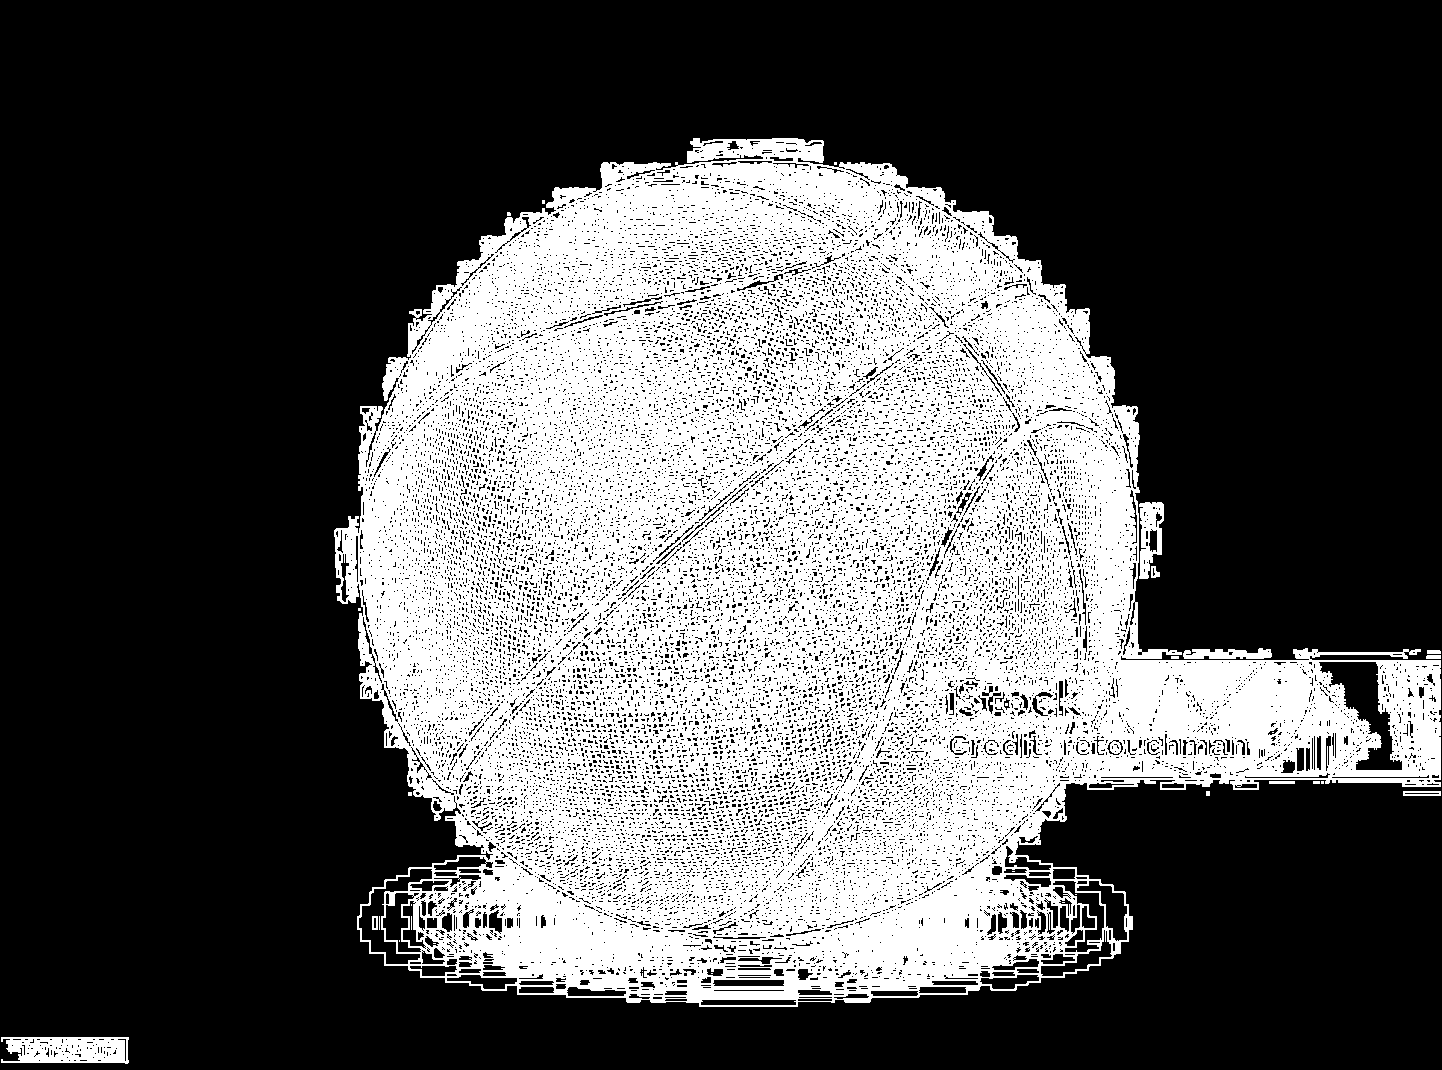
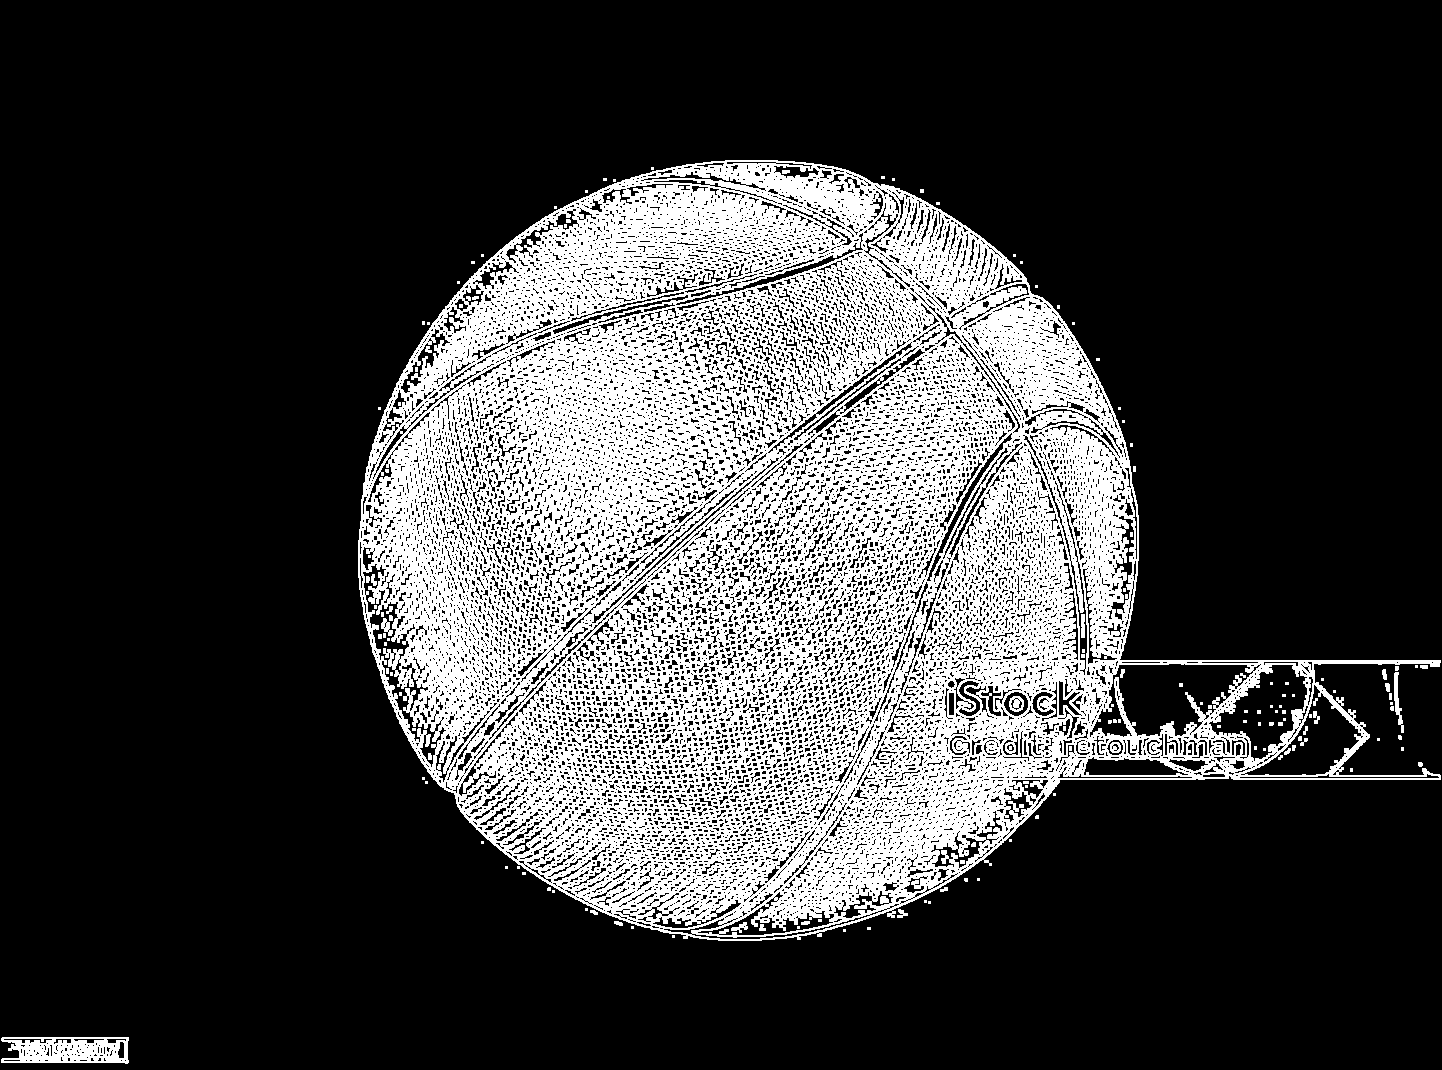
Finallized log_edge

Changed region(s): [[0.2184, 0.1234, 1.0, 0.9561], [0.0624, 0.9561, 0.0936, 0.9869]]

diff --git a/Project2/log_edge.py b/Project2/log_edge.py
@@ -1,79 +1,54 @@
-from typing import Tuple
 import numpy as np
+from typing import Tuple
 from fir_conv import fir_conv
 
 
 def _zero_crossings(img: np.ndarray) -> np.ndarray:
-    """
-    Mark pixels whose 3x3 neighbourhood contains both
-    positive and negative values.
-
-    Parameters
-    ----------
-    img : np.ndarray
-        Filtered (LoG) image.
-
-    Returns
-    -------
-    out : np.ndarray (int)
-        Binary edge map (1=edge).
-    """
     rows, cols = img.shape
     out = np.zeros((rows, cols), dtype=int)
-
-    # Ignore the outer one‑pixel border
     for r in range(1, rows - 1):
         for c in range(1, cols - 1):
-            patch = img[r - 1 : r + 2, c - 1 : c + 2]
+            patch = img[r - 1:r + 2, c - 1:c + 2]
             if patch.min() < 0 and patch.max() > 0:
                 out[r, c] = 1
     return out
 
 
-def log_edge(in_img_array: np.ndarray) -> np.ndarray:
-    """
-    LoG edge detection with zero crossings.
+def _generate_log_kernel(sigma: float) -> Tuple[np.ndarray, np.ndarray]:
+    # Size: 6σ covers most of the Gaussian – force to be odd
+    k = int(np.ceil(3 * sigma))
+    x1 = np.arange(-k, k + 1)
+    x2 = np.arange(-k, k + 1)
+    X1, X2 = np.meshgrid(x1, x2)
 
-    Parameters
-    ----------
-    in_img_array : np.ndarray (float)
-        Grayscale image with values in [0,1].
+    # Equation (6) from the slide
+    factor = -1 / (np.pi * sigma**4)
+    r_squared = X1**2 + X2**2
+    log_kernel = factor * (1 - r_squared / (2 * sigma**2)) * np.exp(-r_squared / (2 * sigma**2))
 
-    Returns
-    -------
-    out_img_array : np.ndarray (int)
-        Binary edge map, same shape, values {0,1}.
-    """
+    return log_kernel, np.array([k, k], dtype=int)
+
+
+def log_edge(in_img_array: np.ndarray, sigma: float = 1.0) -> np.ndarray:
     if in_img_array.ndim != 2:
         raise ValueError("in_img_array must be 2D")
 
-    # ---- 5×5 LoG mask from the assignment ----
-    h_log = np.array(
-        [[ 0,  0, -1,  0,  0],
-         [ 0, -1, -2, -1,  0],
-         [-1, -2, 16, -2, -1],
-         [ 0, -1, -2, -1,  0],
-         [ 0,  0, -1,  0,  0]],
-        dtype=float,
-    )
-    mask_origin = np.array([2, 2], dtype=int)  # centre of 5×5
-    in_origin = np.array([0, 0], dtype=int)
+    # Generate LoG kernel from the exact formula (6)
+    h_log, mask_origin = _generate_log_kernel(sigma)
 
-    # ---- convolution (full) ----
+    # Perform convolution
     conv_full, out_origin = fir_conv(
         in_img_array,
         h_log,
-        in_origin=in_origin,
+        in_origin=np.array([0, 0], dtype=int),
         mask_origin=mask_origin,
     )
 
-    # ---- crop back to original size ----
+    # Crop back to input shape
     r0, c0 = out_origin
     r1 = r0 + in_img_array.shape[0]
     c1 = c0 + in_img_array.shape[1]
     log_img = conv_full[r0:r1, c0:c1]
 
-    # ---- zero‑crossing detection ----
-    out_img_array = _zero_crossings(log_img)
-
-    return out_img_array
+    # Detect edges via zero crossings
+    return _zero_crossings(log_img)
